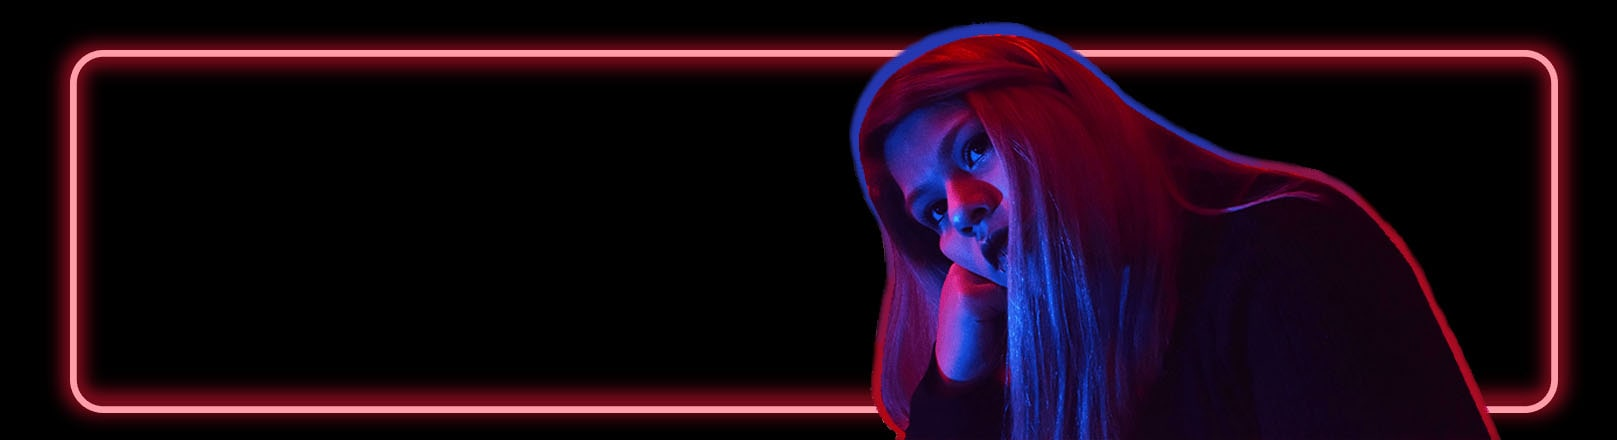
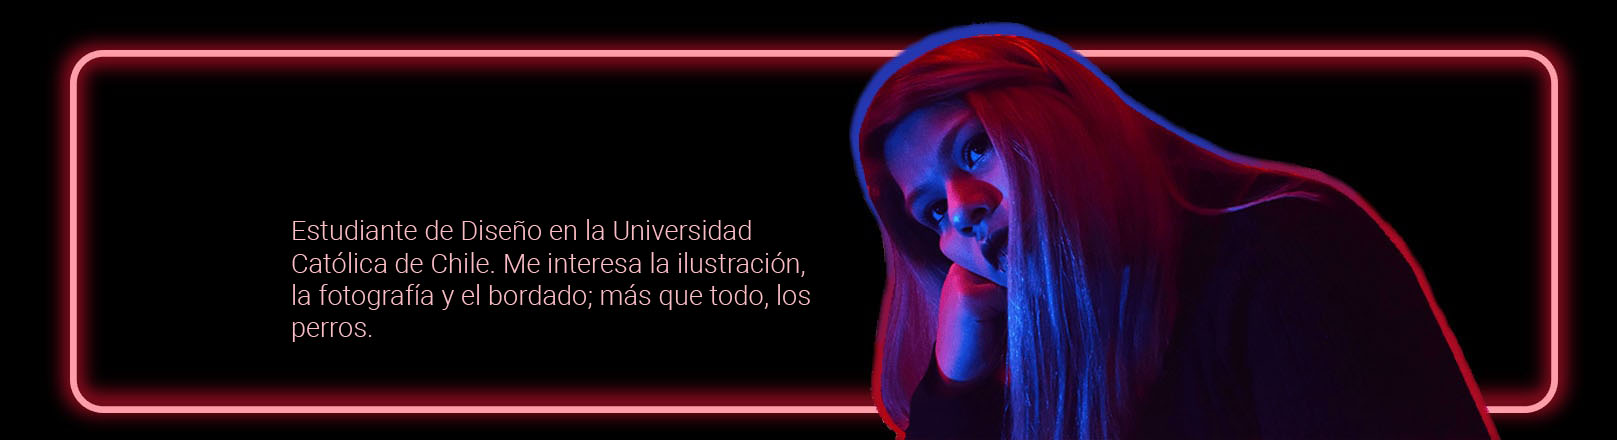
eeee

Changed region(s): [[0.1855, 0.5023, 0.4947, 0.6205], [0.1855, 0.65, 0.4947, 0.7682]]

diff --git a/estilo.css b/estilo.css
@@ -125,7 +125,7 @@ video{
 .item {
 	width:23%;
 	margin:1%;
-	color:#333;
+	color:#ff9ea9;
 	background:black;
 	box-shadow:0 0 5px rgba(0,0,0,1);
 }
